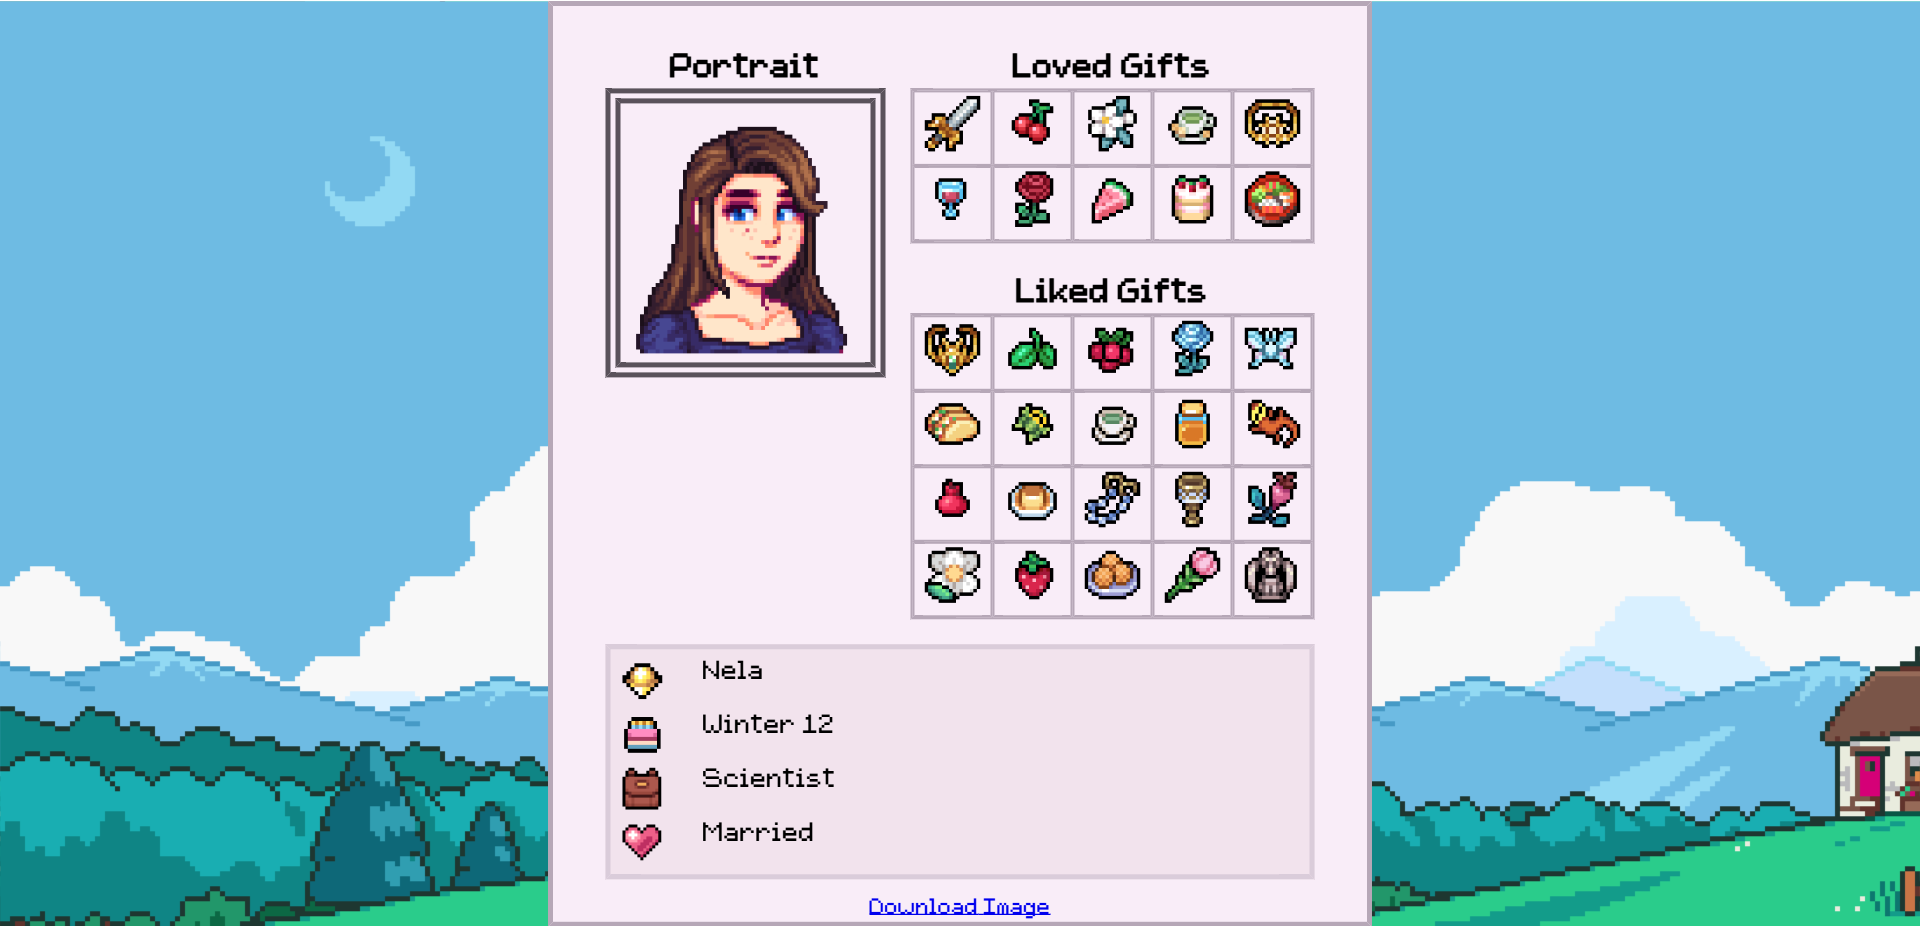
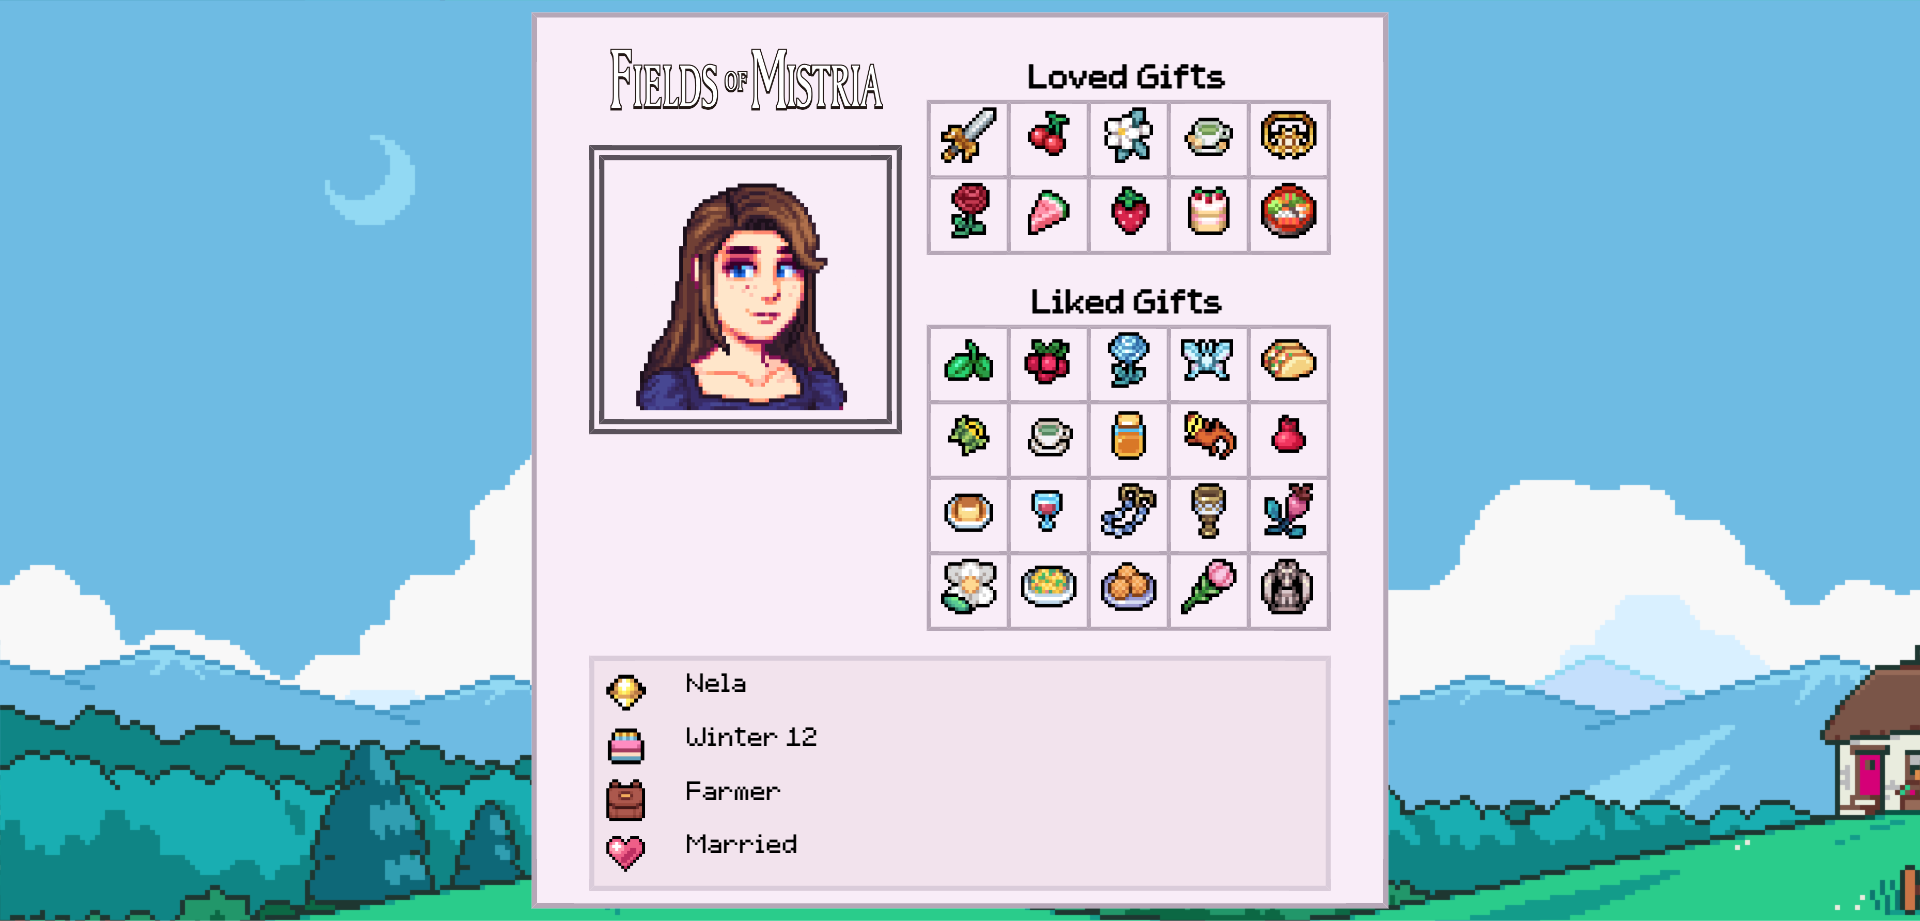
Insert new images for Readme.

diff --git a/mistria/src/App.jsx b/mistria/src/App.jsx
@@ -30,7 +30,7 @@ function App() {
         <h2>About</h2>
         <text>This is a profile maker inspired by NPC Studio's <a href="Fields of Mistria">Fields of Mistria</a>. Create your own character page as it would appear in the game!</text>
         <h2>Instructions</h2>
-        <text>Click on the profile or any of the liked or loved items to upload your own image. You can download game sprites from the <a href="https://fieldsofmistria.wiki.gg/wiki/Fields_of_Mistria_Wiki">Fields of Mistria Wiki</a>.</text>
+        <text>Click on the profile or any of the liked items to upload your own image. You can download game sprites from the <a href="https://fieldsofmistria.wiki.gg/wiki/Fields_of_Mistria_Wiki">Fields of Mistria Wiki</a>.</text>
         <div className='bio-container'>
           <text>Tip: If you want to follow in-game design rules, arrange your likes and loves in alpahebtical order.</text>
         </div>
@@ -41,8 +41,6 @@ function App() {
           <div className="flex-child">
           <img src={logo} width="250px"/>
             {portrait()}
-            <br></br>
-            <textarea className="textarea" name="description" defaultValue="Enter description" />
           </div>
           <div className="flex-child">
             <h2>Loved Gifts</h2>
@@ -118,7 +116,7 @@ function App() {
               height="35px"
               width="35px"
             />
-            <input className="input" name="relationship" defaultValue="Enter relationship status" />
+            <input className="input" name="relationship" defaultValue="Enter relationship info" />
           </div>
         </div>
       </div>
@@ -132,7 +130,7 @@ function App() {
           </li>
         </div>
         <h2> Disclaimer </h2>
-        <text>I am not affiliated with NPC Studios or Fields of Mistria in any capacity. This is a transformative fan work for which I am not making money. If you wish for this content to be modified or taken down, please send me a message.</text>
+        <text>I am not affiliated with NPC Studios or Fields of Mistria. This is a fan project for which I am not making money. If you wish for this content to be modified or taken down, please send me a message.</text>
         <h2> Contact </h2>
         <text>This page was made with love by Nela Jankechova, Toronto-based biologist and programmer. Please reach out!</text>
         <div className='bio-container'>

diff --git a/mistria/src/contentEditable.jsx b/mistria/src/contentEditable.jsx
@@ -1,0 +1,27 @@
+import React from 'react'
+import ContentEditable from 'react-contenteditable'
+
+class contentEditable extends React.Component {
+  constructor() {
+    super()
+    this.contentEditable = React.createRef();
+    this.state = { html: "Enter description" };
+  };
+
+  handleChange = evt => {
+    this.setState({ html: evt.target.value });
+  };
+
+  render = () => {
+    return <ContentEditable
+      className='contenteditable'
+      innerRef={this.contentEditable}
+      html={this.state.html} // innerHTML of the editable div
+      disabled={false}       // use true to disable editing
+      onChange={this.handleChange} // handle innerHTML change
+      tagName='article' // Use a custom HTML tag (uses a div by default)
+    />
+  };
+};
+
+export default contentEditable
